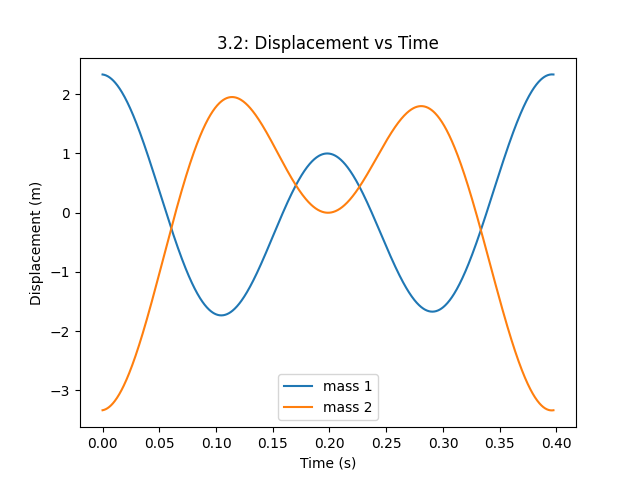
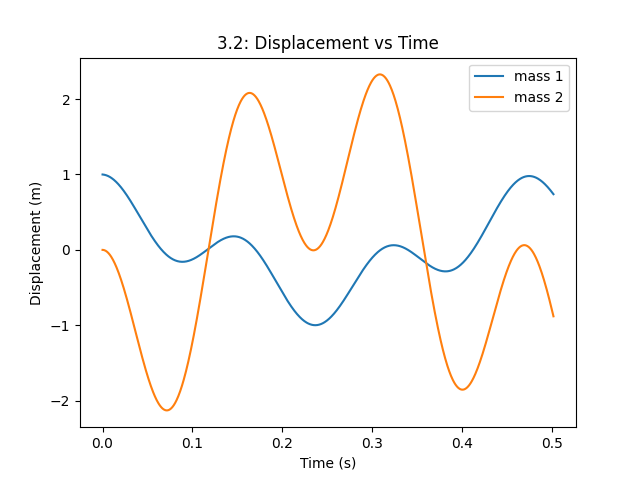
question3 edit

diff --git a/question3.py b/question3.py
@@ -2,7 +2,7 @@ from matplotlib import pyplot as plt
 import numpy as np
 x0=[[1,2],[1,0]]#initial displacements
 v0=[[1,-2],[-1,0]]#initial velocities
-m=[1,2]#masses
+m=[2,1]#masses
 k=[1000,500]#spring constants
 
 def get_modal_freq(m,k):
